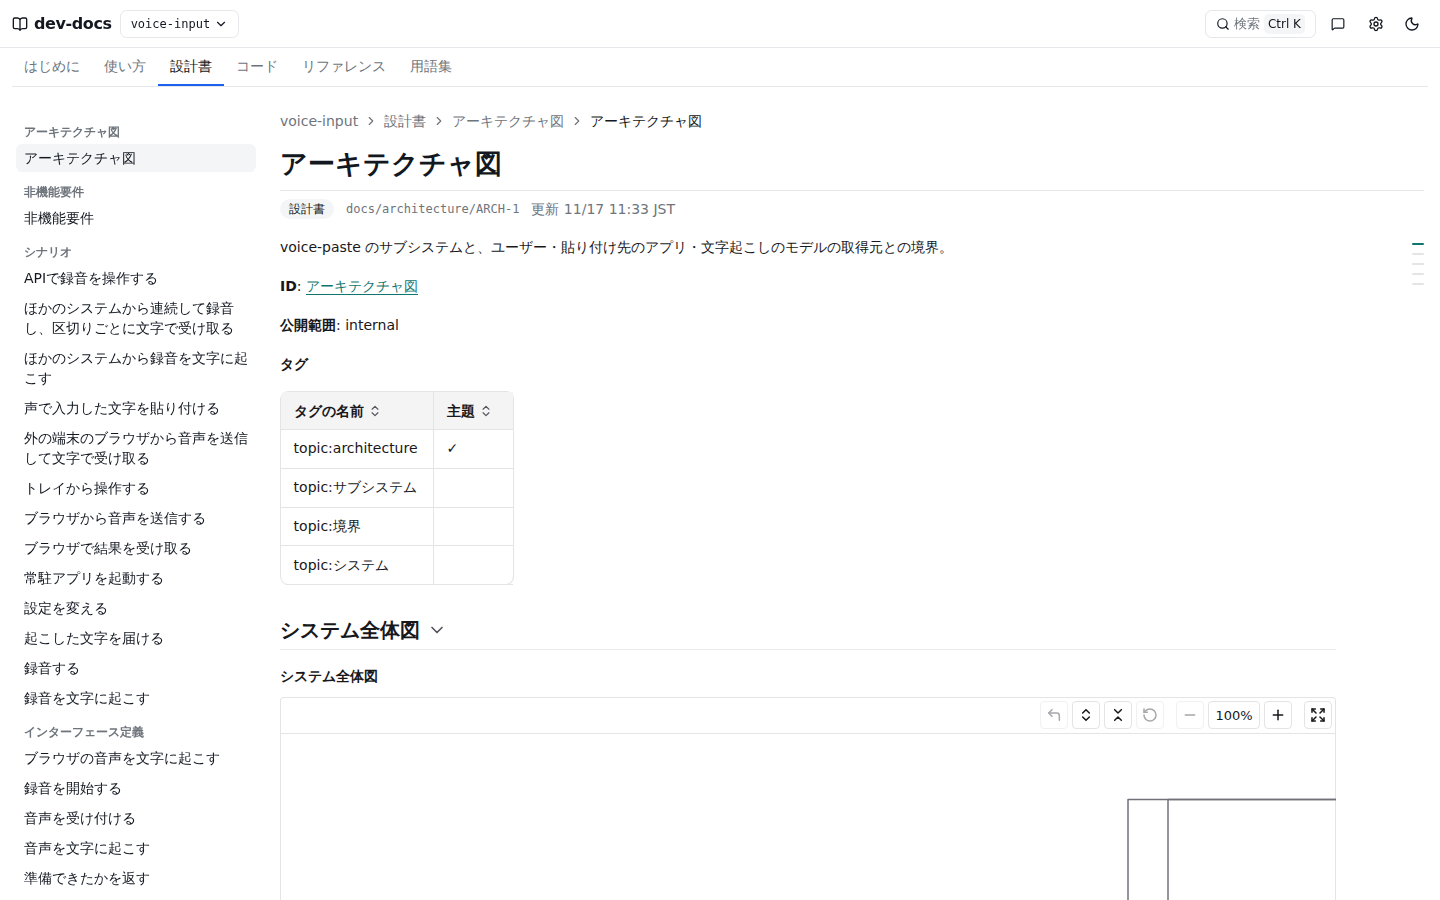
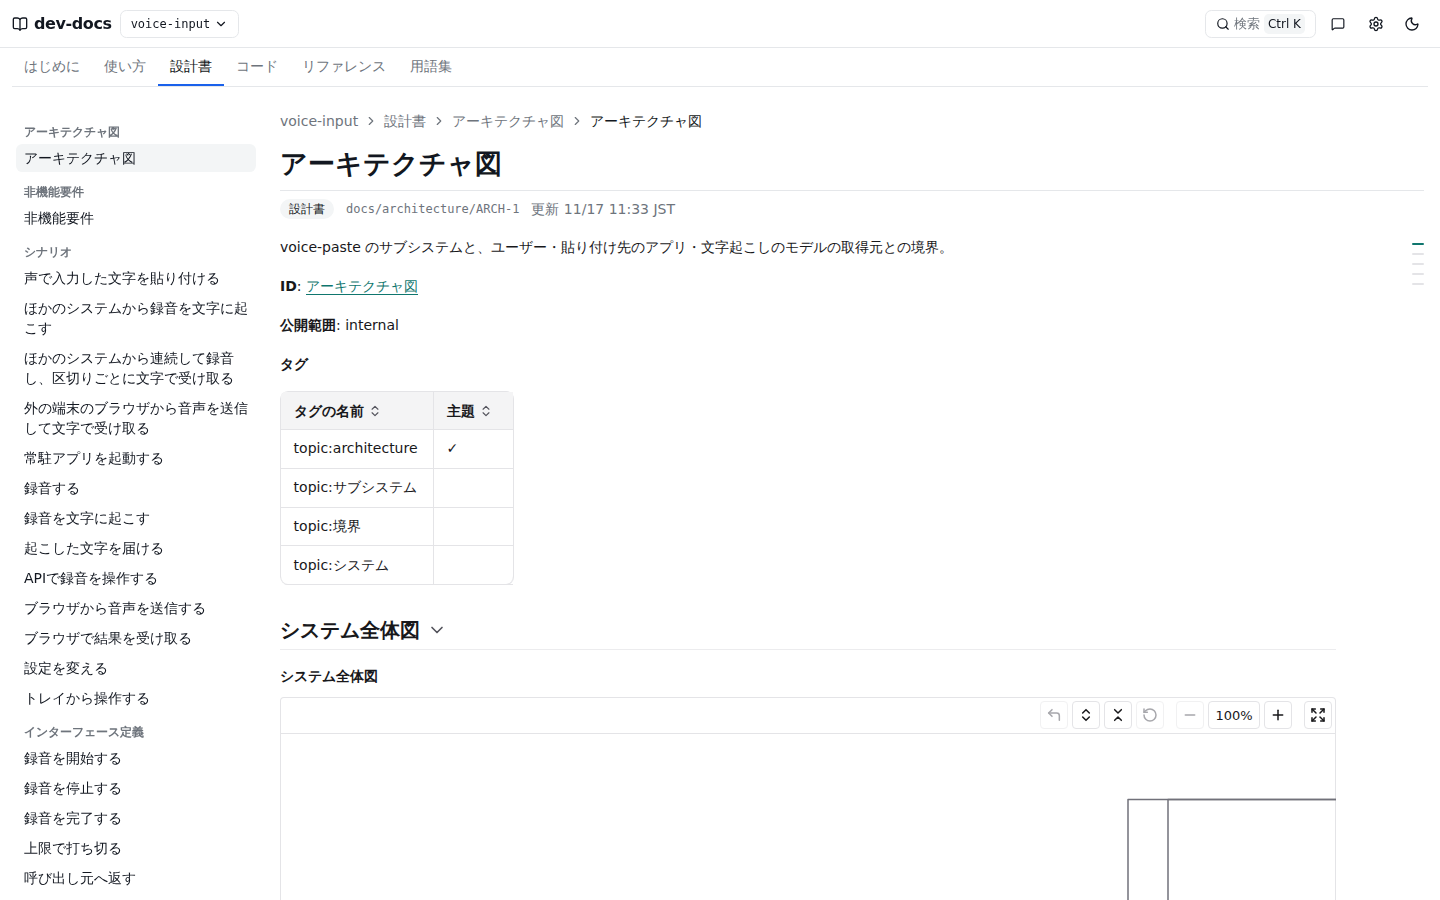
docs: グループの中の並びを反映した画面確認とスコープ外を記入

Changed region(s): [[0.0, 0.28, 0.1875, 0.7778], [0.0, 0.84, 0.0938, 0.9956]]

diff --git a/docs/pr/327/README.md b/docs/pr/327/README.md
@@ -21,6 +21,7 @@
 
 作業ブランチの `dev-docs.yaml` を読む project-index と dev-docs を別ポートで立て、画面を Playwright（1440x900）で撮った。
 タブは はじめに・使い方・設計書・コード・リファレンス・用語集 の 6 件で、幅に収まる（はみ出し無し）。目次とモックの Markdown はタブにもサイドバーにも出ない。
+設計書のグループの中は、シナリオ（複合 UC の後に単一 UC を流れの順）・インターフェース定義・画面設計・データ・ER 図・外部API を流れか重要さの順、モジュール構成・外部ライブラリを名前の順で並べる。コードのタブはパスの順。
 
 | 画面 | スクリーンショット |
 | --- | --- |
